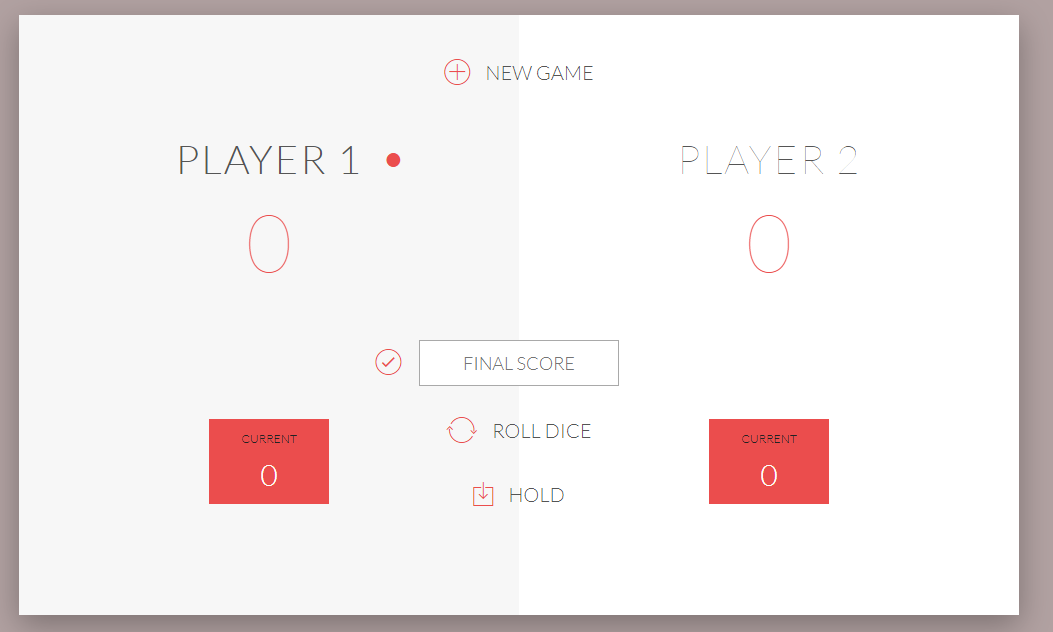
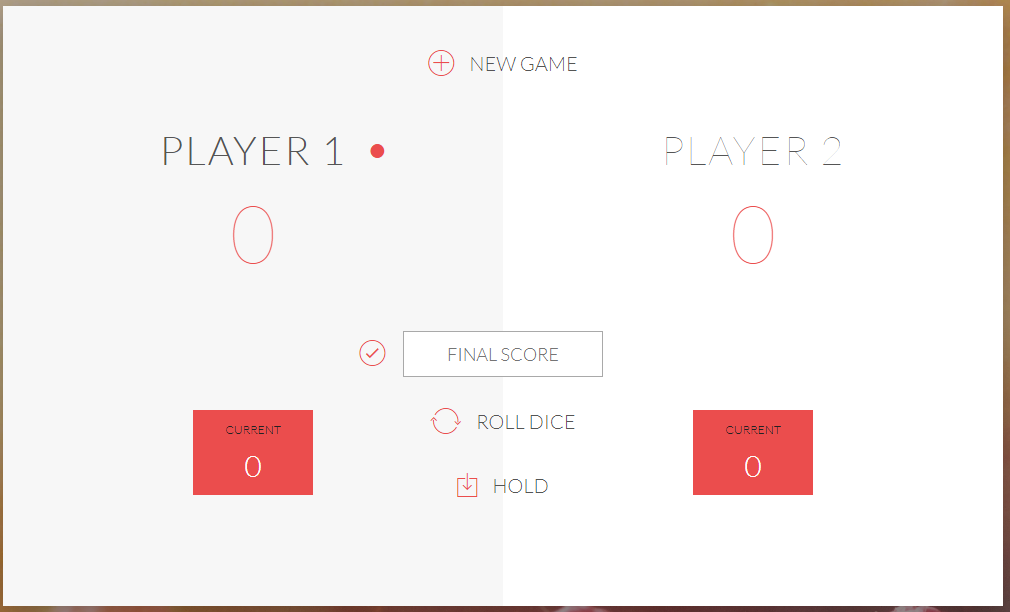
Fix path to background and images quality for readme

diff --git a/style.css b/style.css
@@ -16,7 +16,7 @@
 }
 
 body {
-    background-image: linear-gradient(rgba(62, 20, 20, 0.4), rgba(62, 20, 20, 0.4)), url(back.jpg);
+    background-image: linear-gradient(rgba(62, 20, 20, 0.4), rgba(62, 20, 20, 0.4)), url(img/back.jpg);
     background-size: cover;
     background-position: center;
     font-family: Lato;
